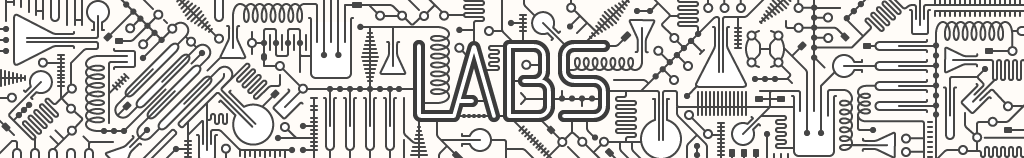
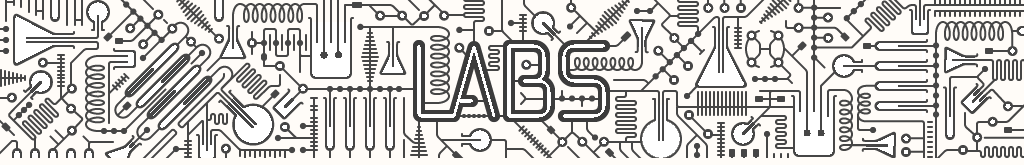
replace image with gradient on labs page header

diff --git a/views/stylesheets/_application.scss b/views/stylesheets/_application.scss
@@ -601,6 +601,7 @@ footer #map{
       background-image: url("/images/tricklr.jpg");
       background-position-x: 50%;
     }
+
     a{
       color: $pink;
     }
@@ -646,38 +647,45 @@ footer #map{
 }
 
 .labs-header{
+  $stop: 100% / 7;
+  @include background-image(linear-gradient($pink   $stop * 0, $pink   $stop * 1,
+                                            $purple $stop * 1, $purple $stop * 2,
+                                            $blue   $stop * 2, $blue   $stop * 3,
+                                            $aqua   $stop * 3, $aqua   $stop * 4,
+                                            $green  $stop * 4, $green  $stop * 5,
+                                            $orange $stop * 5, $orange $stop * 6,
+                                            $pink   $stop * 6, $pink   $stop * 7));
+
   position: relative;
-  height: 158px;
+  height: 165px;
   width: 100%;
-  background-position: 0 0;
-  background-image: url('/images/lab-bg.gif');
-  background-repeat: repeat;
   margin: $baseline*4 0 $baseline;
-  -webkit-animation: fill 20s infinite;
+  background-color: $pink;
+  background-size: 100% 700%;
+  -webkit-animation: colors 30s linear infinite;
 }
 
-@-webkit-keyframes fill {
-  000% {background-position: 0 (-158px * 0);};
-  013% {background-position: 0 (-158px * 0);};
-  016% {background-position: 0 (-158px * 1);};
-  029% {background-position: 0 (-158px * 1);};
-  032% {background-position: 0 (-158px * 2);};
-  045% {background-position: 0 (-158px * 2);};
-  048% {background-position: 0 (-158px * 3);};
-  061% {background-position: 0 (-158px * 3);};
-  064% {background-position: 0 (-158px * 4);};
-  077% {background-position: 0 (-158px * 4);};
-  080% {background-position: 0 (-158px * 5);};
-  095% {background-position: 0 (-158px * 5);};
-  098% {background-position: 0 (-158px * 6);};
-  100% {background-position: 0 (-158px * 6);};
+@-webkit-keyframes colors {
+        0% {background-position-y: (100% / 6) * 6;}
+  15.6666% {background-position-y: (100% / 6) * 6;}
+  16.6666% {background-position-y: (100% / 6) * 5;}
+  32.3333% {background-position-y: (100% / 6) * 5;}
+  33.3333% {background-position-y: (100% / 6) * 4;}
+  49.0000% {background-position-y: (100% / 6) * 4;}
+  50.0000% {background-position-y: (100% / 6) * 3;}
+  65.6666% {background-position-y: (100% / 6) * 3;}
+  66.6666% {background-position-y: (100% / 6) * 2;}
+  82.3333% {background-position-y: (100% / 6) * 2;}
+  83.3333% {background-position-y: (100% / 6) * 1;}
+  99.0000% {background-position-y: (100% / 6) * 1;}
+      100% {background-position-y: (100% / 6) * 0;}
 }
 
 .labs-header-img{
   position: absolute;
   top: 0;
   left: 0;
-  height: 158px;
+  height: 165px;
   width: 100%;
   background-image: url('/images/labs.png');
   background-position: center center;
